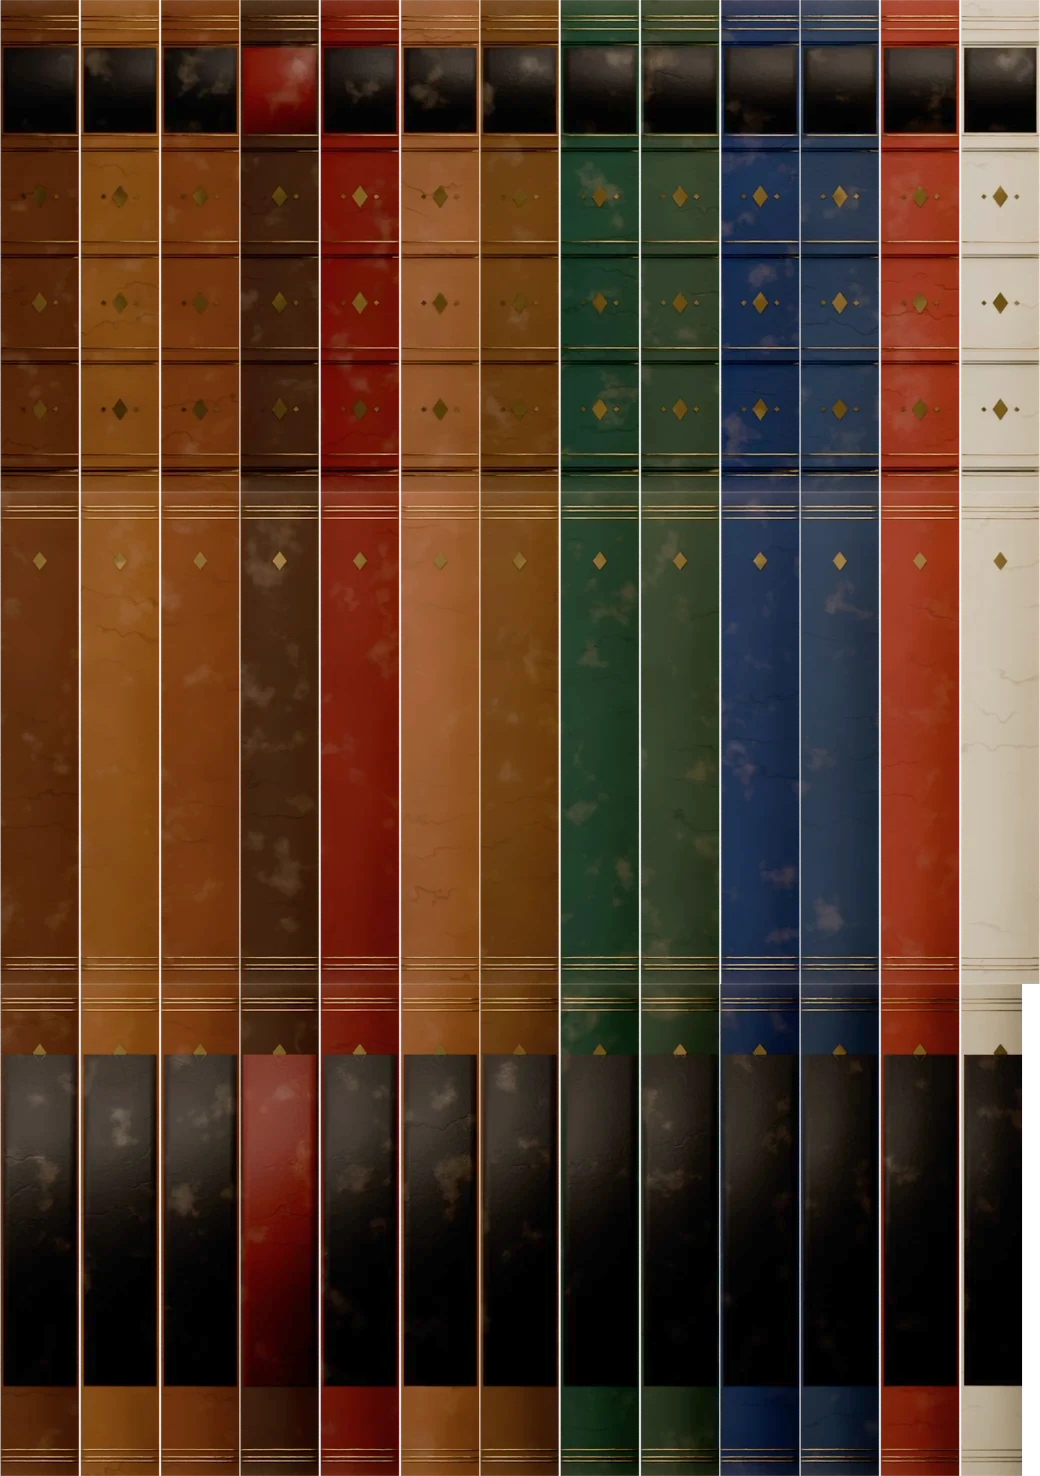
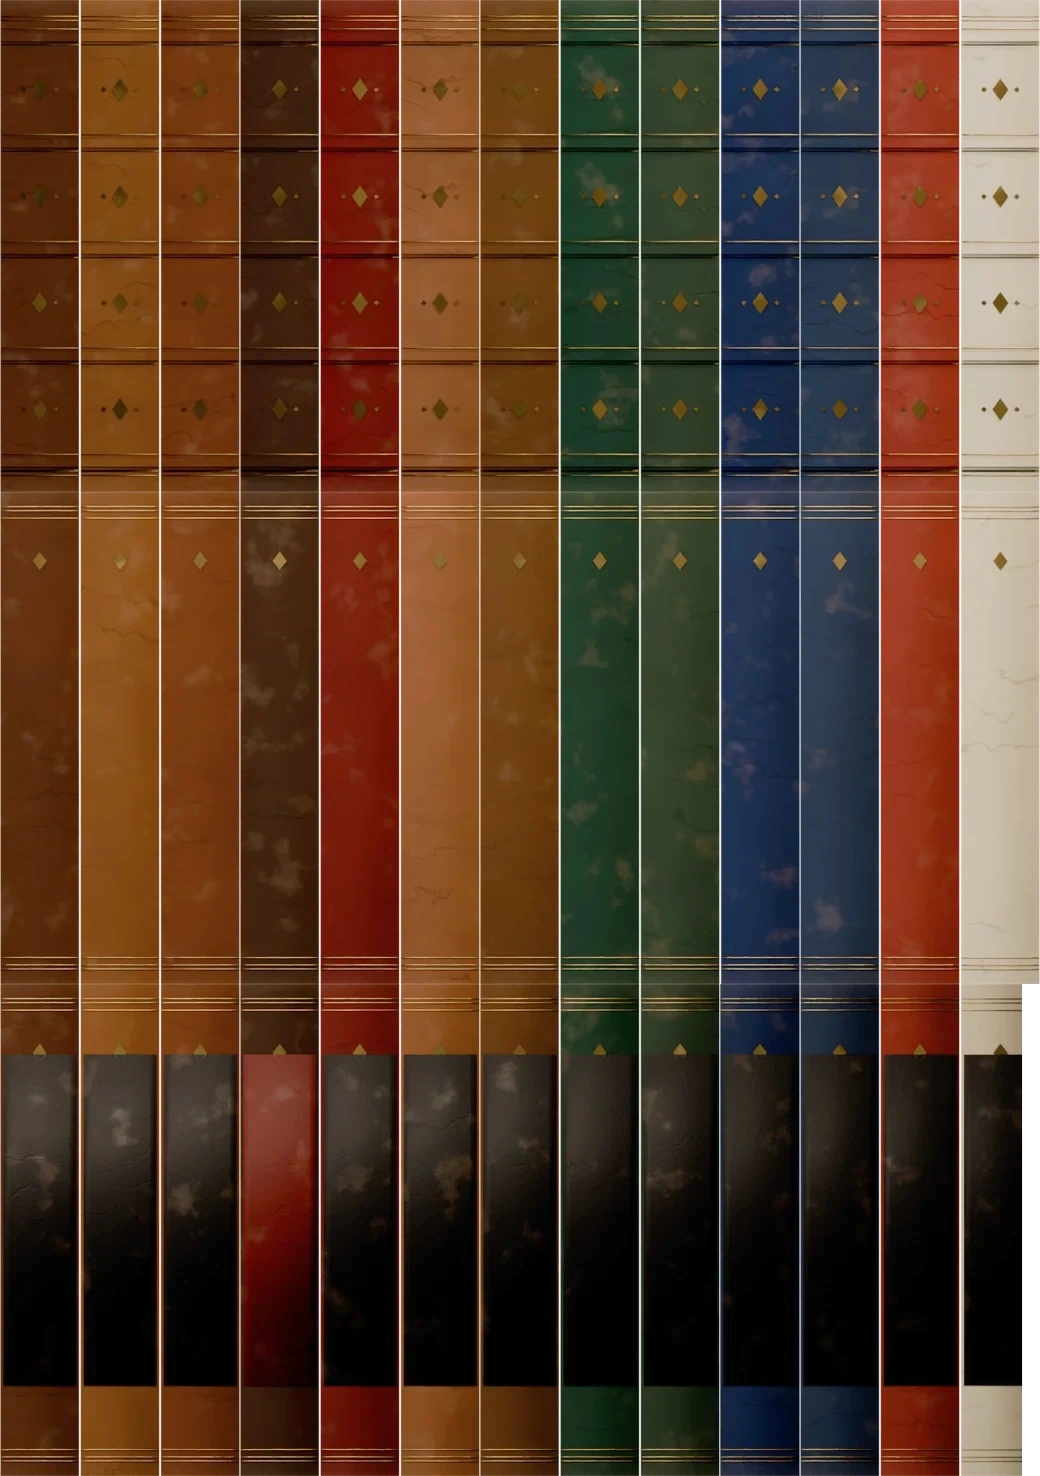
Remove the unused black title window from antique spines
The antique spine style had a black square meant for the title, but titles now sit below it. The square is painted out with the neighbouring leather panel in every binding colour, and the title window is taller.

Changed region(s): [[0.0, 0.0312, 1.0, 0.0935]]

diff --git a/index.html b/index.html
@@ -1442,7 +1442,7 @@ function findDuplicate(title, author, isbn) {
 const measureCtx = document.createElement('canvas').getContext('2d');
 const mCache = new Map(), fitCache = new Map();
 function textW(s, font) { const k = font + '|' + s; let w = mCache.get(k); if (w == null) { measureCtx.font = font; w = measureCtx.measureText(s).width; mCache.set(k, w); } return w; }
-const SPINE_WIN = { smooth: [0.13, 0.74], label: [0.16, 0.68], antique: [0.3, 0.58] }; // [top, length] as a share of the spine height
+const SPINE_WIN = { smooth: [0.13, 0.74], label: [0.16, 0.68], antique: [0.2, 0.64] }; // [top, length] as a share of the spine height
 const famFor = (fs) => (fs >= 11 ? 'cg' : 'eb');
 const fontStr = (fam, fs) => fam === 'cg' ? `700 ${fs}px "Cormorant Garamond", Georgia, serif` : `600 ${fs}px "EB Garamond", Georgia, serif`;
 function perPx(s, fam, track) { return textW(s, fontStr(fam, 20)) / 20 + [...s].length * track; }

diff --git a/sw.js b/sw.js
@@ -1,7 +1,7 @@
 /* The Library — service worker.
  * Bump VERSION on every deploy that changes any precached file, so clients pick up the new shell.
  */
-const VERSION = 'lib-v14';
+const VERSION = 'lib-v15';
 
 const SHELL_CACHE = 'shell-' + VERSION;
 const COVERS_CACHE = 'covers';          // shared across versions, capped below
